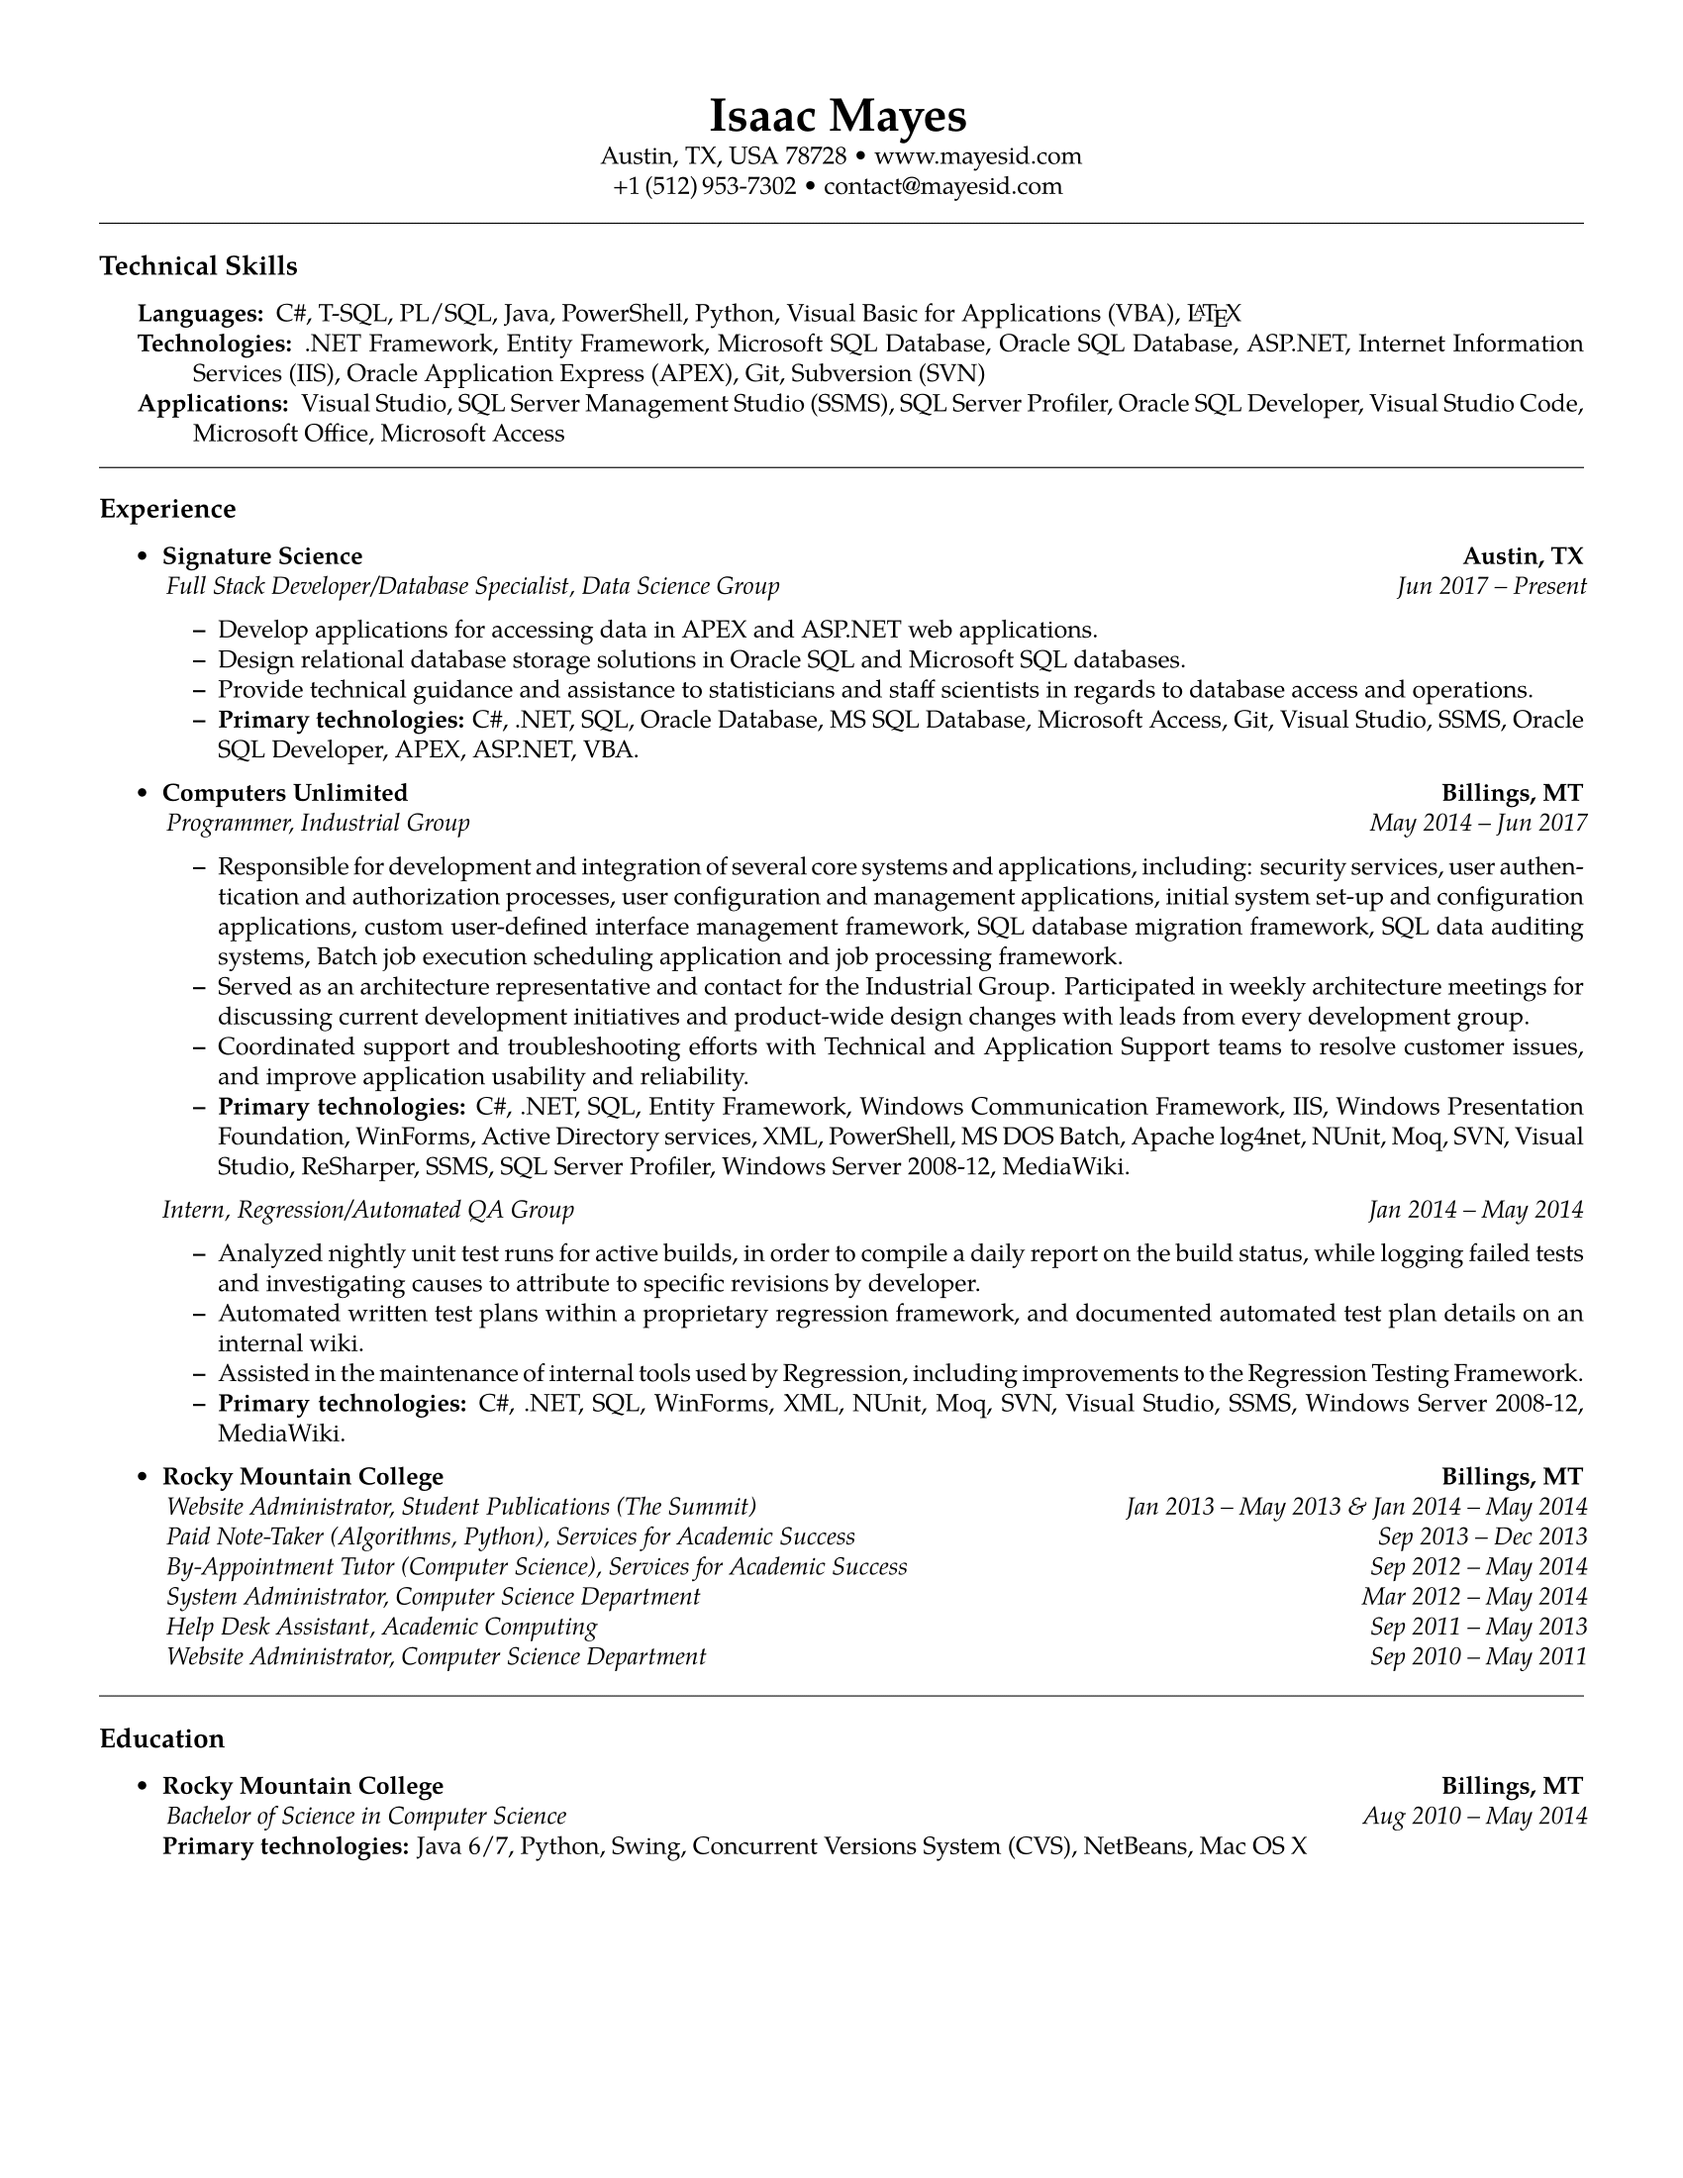
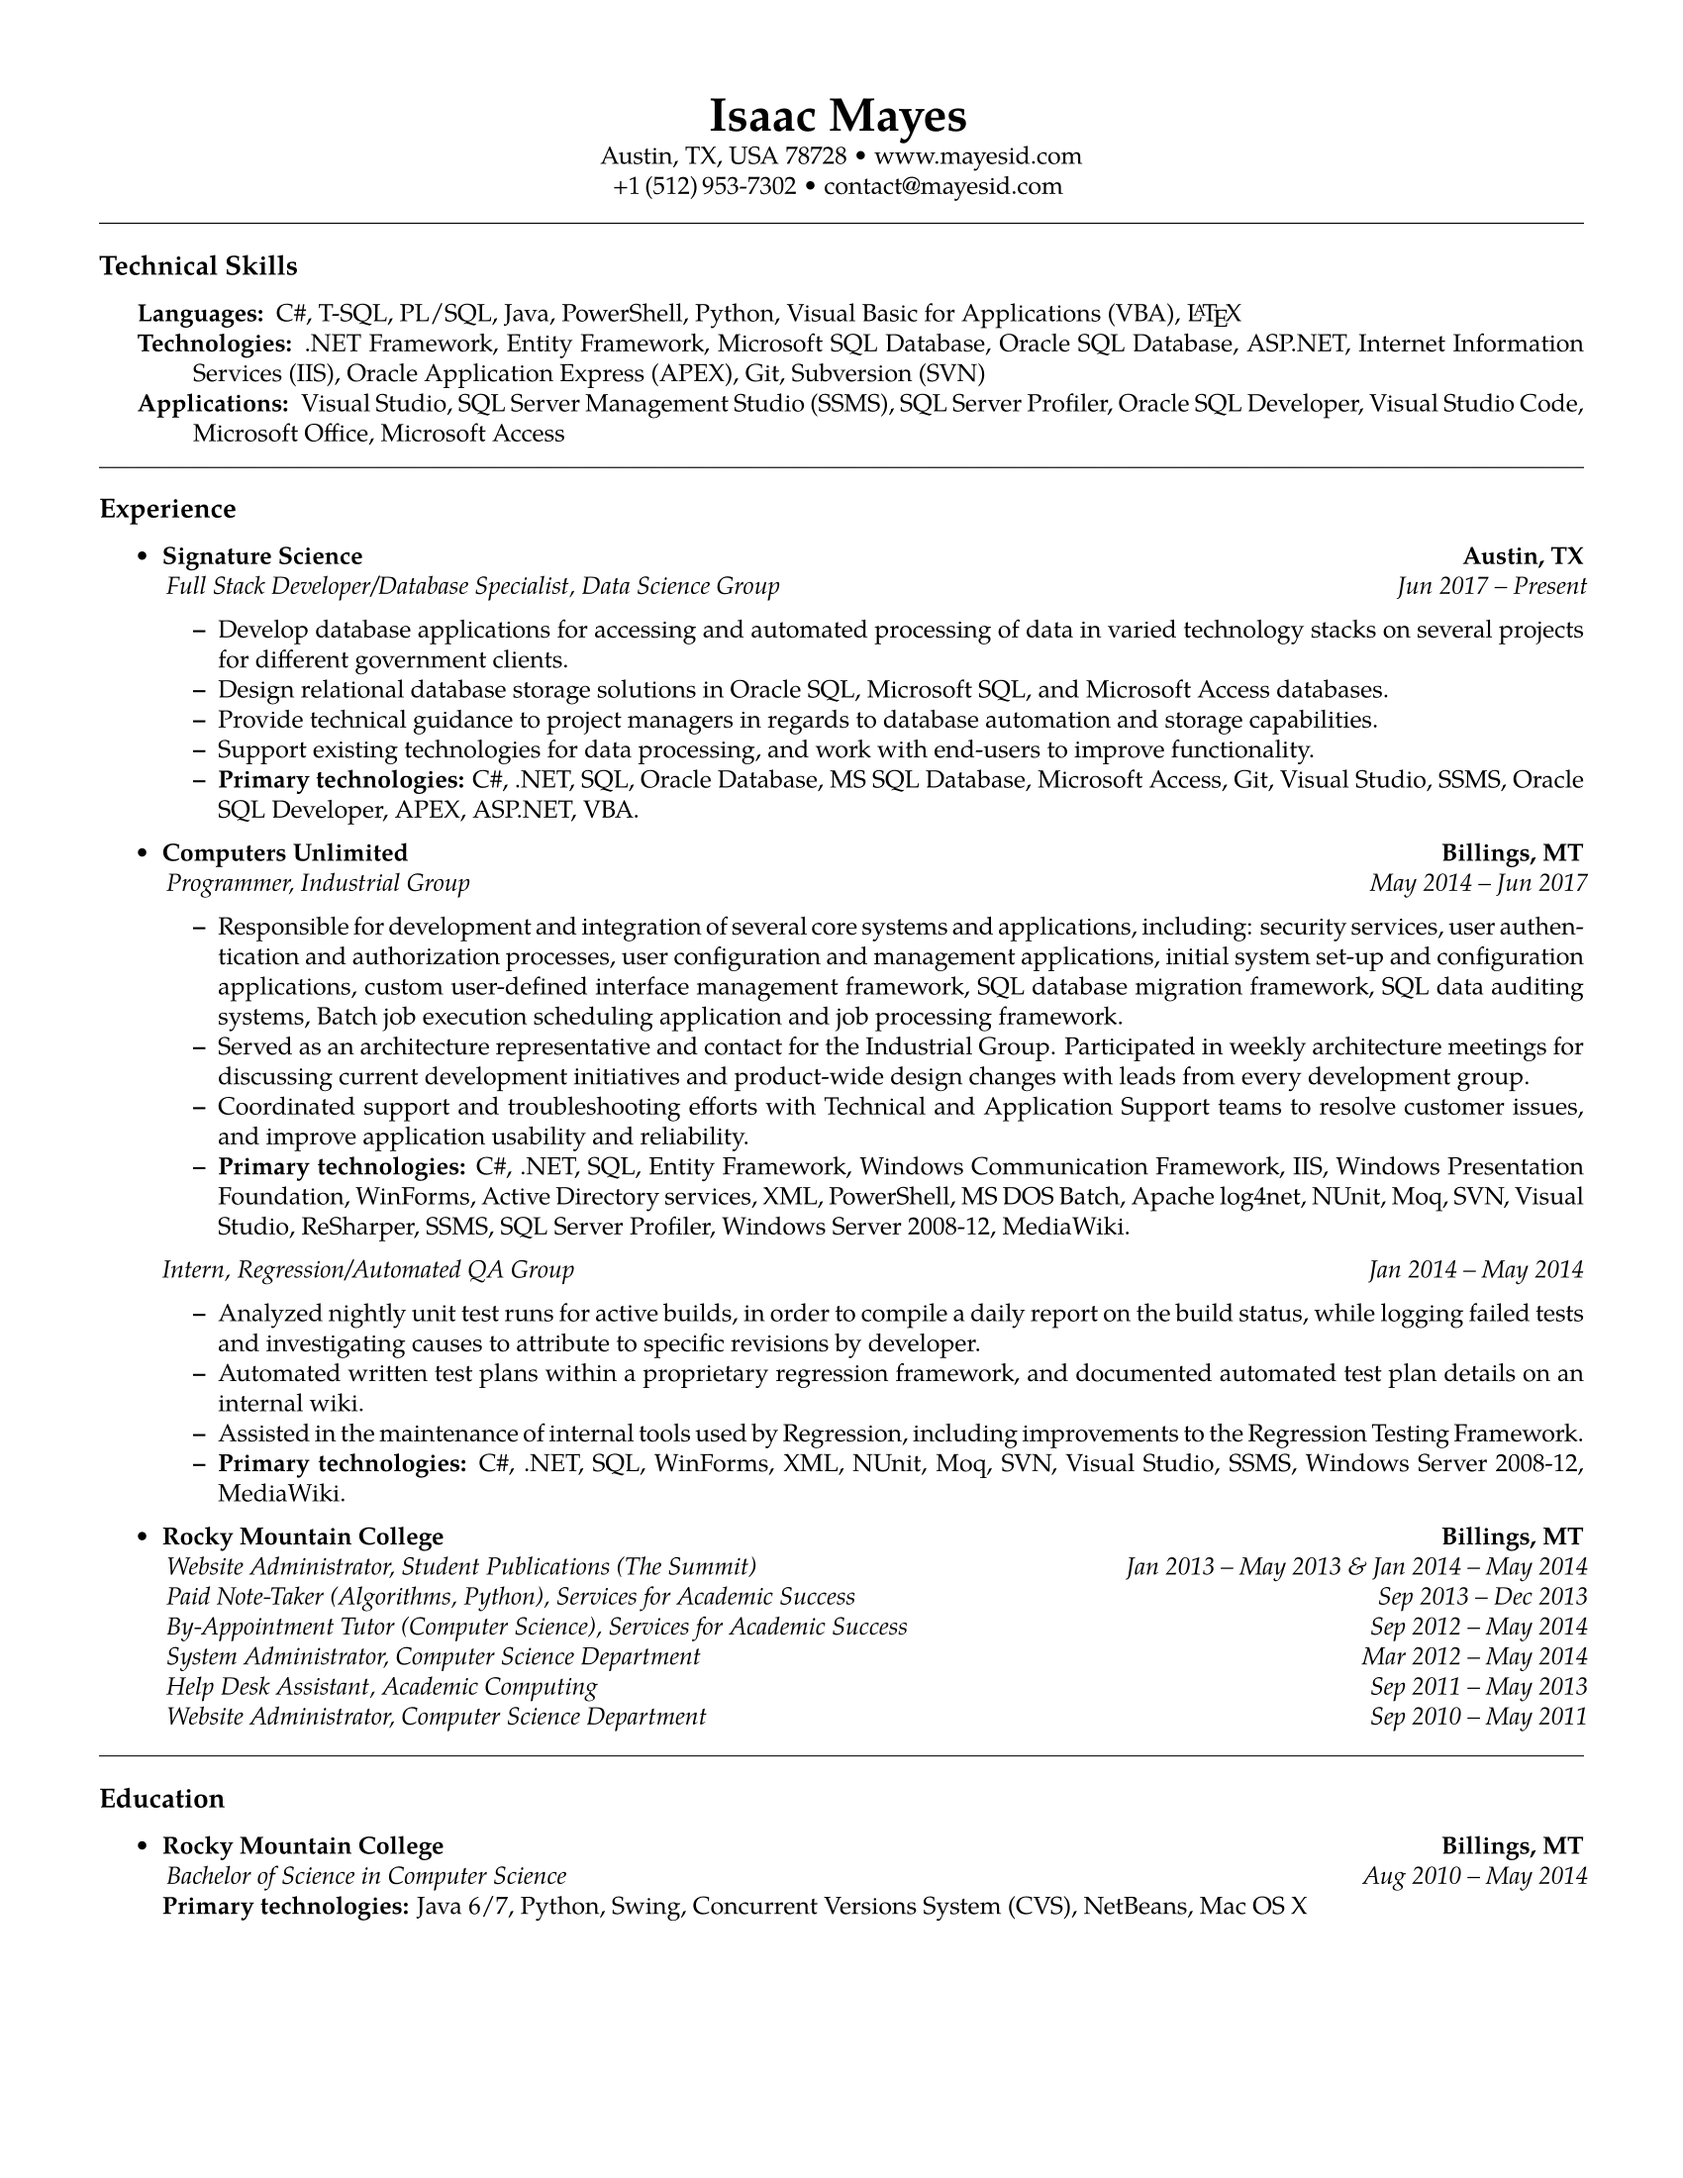
Update current position details
* Re-worded details for current position.
* Fix spacing inconsistencies.
* Regenerated PDF file.
* Regenerated image file.

Changed region(s): [[0.0624, 0.2782, 0.9353, 0.8964], [0.6547, 0.8345, 0.6859, 0.8964], [0.3741, 0.8655, 0.4053, 0.8964]]

diff --git a/Resume_IsaacMayes.tex b/Resume_IsaacMayes.tex
@@ -105,10 +105,10 @@ breaklinks}
 \begin{description*}
 	\item[Languages:]
 	\pdfbookmark[2]{Languages}{PDF:Languages}
-	C\#,  T-SQL, PL/SQL, Java, PowerShell, Python, Visual Basic for Applications (VBA), \LaTeX
+	C\#, T-SQL, PL/SQL, Java, PowerShell, Python, Visual Basic for Applications (VBA), \LaTeX
 	\item[Technologies:]
 	\pdfbookmark[2]{Technologies}{PDF:Technologies}
-	.NET Framework, Entity Framework, Microsoft SQL Database, Oracle SQL Database, ASP.NET, Internet Information Services (IIS), Oracle Application Express (APEX), Git,  Subversion (SVN)
+	.NET Framework, Entity Framework, Microsoft SQL Database, Oracle SQL Database, ASP.NET, Internet Information Services (IIS), Oracle Application Express (APEX), Git, Subversion (SVN)
 	\item[Applications:]
 	\pdfbookmark[2]{Applications}{PDF:Applications}
 	Visual Studio, SQL Server Management Studio (SSMS), SQL Server Profiler, Oracle SQL Developer, Visual Studio Code, Microsoft Office, Microsoft Access
@@ -133,9 +133,10 @@ breaklinks}
 		{\emph{Full Stack Developer/Database Specialist, \href{http://www.signaturescience.com/what-we-do/data-science-and-applied-statistics}{Data Science Group}}}
 		{\emph{\DatestampYM{2017}{06} -- Present}}
 	\begin{itemize*}
-		\item Develop applications for accessing data in APEX and ASP.NET web applications.
-		\item Design relational database storage solutions in Oracle SQL and Microsoft SQL databases.
-		\item Provide technical guidance and assistance to statisticians and staff scientists in regards to database access and operations.
+		\item Develop database applications for accessing and automated processing of data in varied technology stacks on several projects for different government clients.
+		\item Design relational database storage solutions in Oracle SQL, Microsoft SQL, and Microsoft Access databases.
+		\item Provide technical guidance to project managers in regards to database automation and storage capabilities.
+		\item Support existing technologies for data processing, and work with end-users to improve functionality.
 		\item \textbf{Primary technologies:} C\#, .NET, SQL, Oracle Database, MS SQL Database, Microsoft Access, Git, Visual Studio, SSMS, Oracle SQL Developer, APEX, ASP.NET, VBA.
 	\end{itemize*}
 
